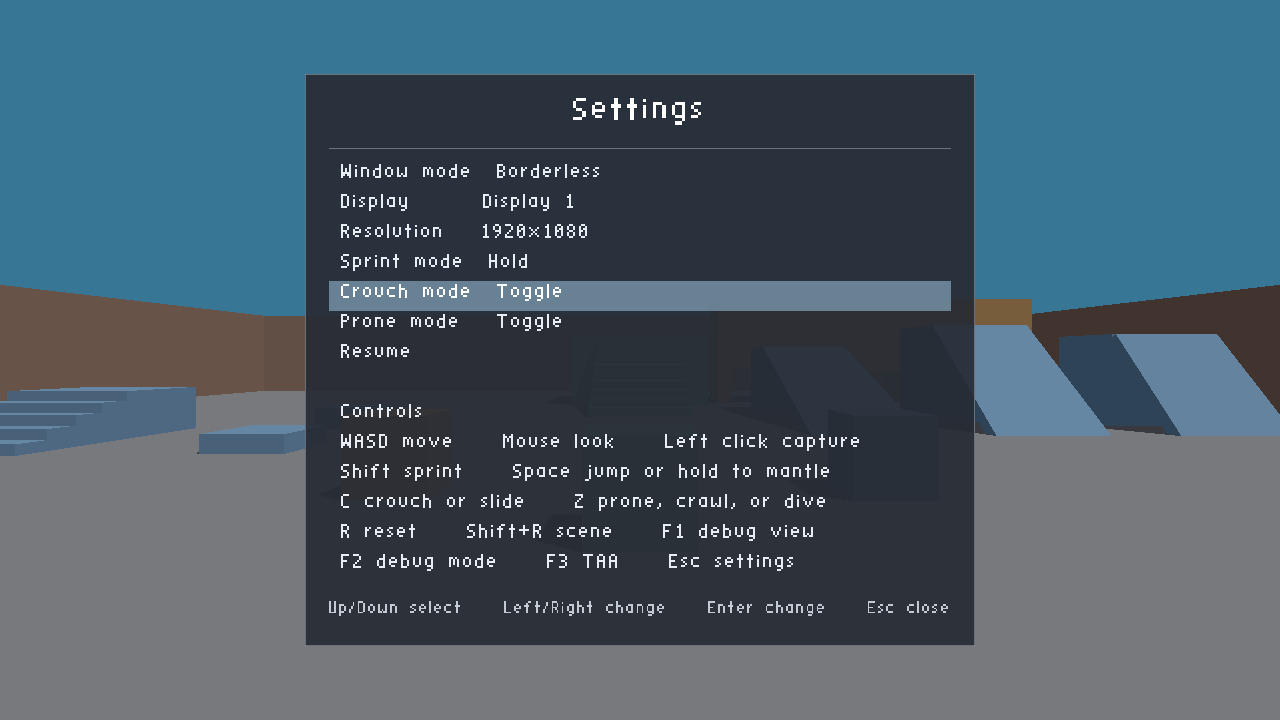
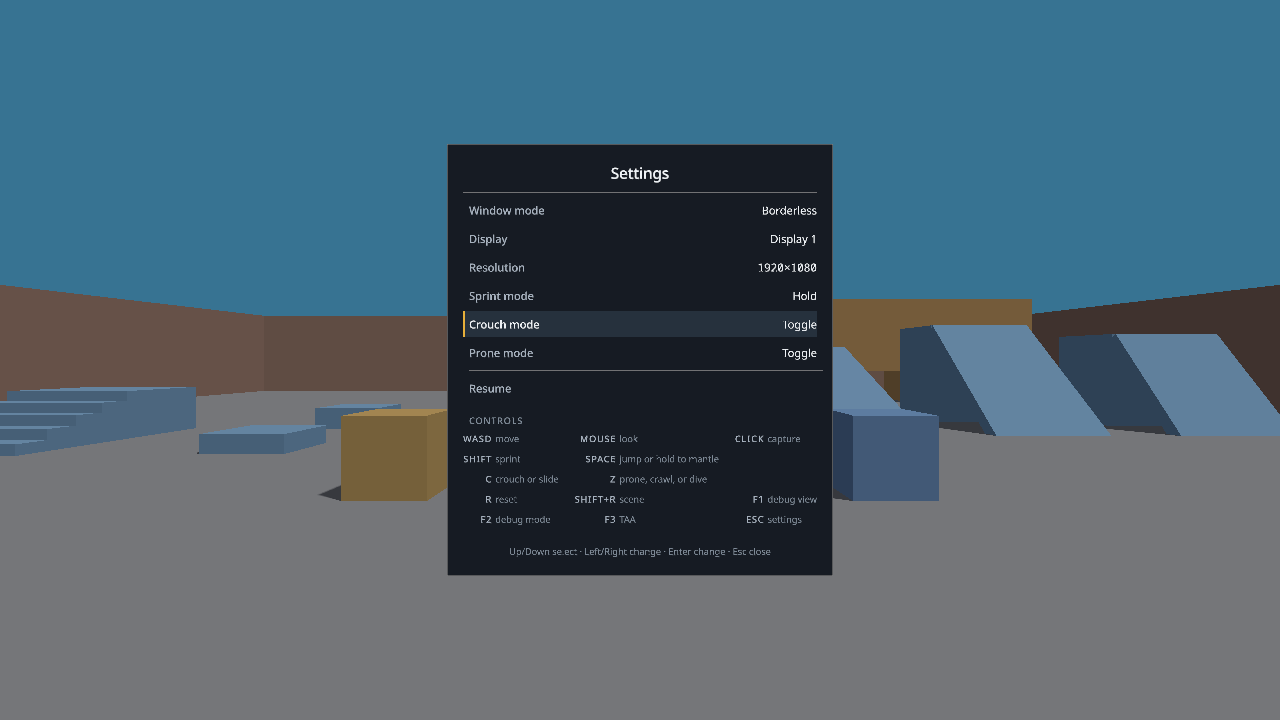
test(harness): cover the new UI and refresh the evidence
Add a debug_mode command so the debug readout can be captured and checked; it
reports through debug.active and is idempotent, because the game's toggle is not.
Clearing the simulation now resets the debug mode too, since its saved player
belongs to the world that just went away.

Add hud, hud-debug, and ui scenarios, regenerate the UI evidence, and document
the screenshot recipe. README and the harness guide describe the panel as it now
draws.

Refs #99

diff --git a/README.md b/README.md
@@ -49,9 +49,14 @@ into the binary.
 
 ### Settings menu
 
-`Esc` opens a centered settings menu. The menu pauses the simulation and shows
-the active control list. It changes the window mode, the display, the
-resolution, and the sprint, crouch, and prone input modes.
+`Esc` opens a centered settings menu. The menu pauses the simulation. It changes
+the window mode, the display, the resolution, and the sprint, crouch, and prone
+input modes, and below them it lists the active controls as a key legend.
+
+The first six rows are settings: the label sits on the left, the current value is
+right-aligned on the panel edge. `Resume` is an action, not a setting, and sits
+below a divider. The selected row always carries an amber bar on its leading
+edge, so selection never depends on a colour change alone.
 
 - `Up` / `Down`: select a row.
 - `Left` / `Right`: change the selected row in that direction.
@@ -178,7 +183,8 @@ step. `forward`, `right`, and `jump` persist; `jump` is an edge on the first
 frame of its block. Capture frames are zero-based frame numbers. Check operators
 are `eq`, `ne`, `lt`, `le`, `gt`, and `ge`. Check fields use the `state.json`
 shape, for example `player.position.y`, `player.grounded`, `crates.0.position.z`,
-`crates.count`, `settings.window_mode`, `settings.resolution`, or `menu.open`.
+`crates.count`, `settings.window_mode`, `settings.resolution`, `menu.open`, or
+`debug.active`.
 
 A scenario may use `commands` instead of `steps`:
 
@@ -210,7 +216,7 @@ The batch runner and the live session share one command set:
 - `{"cmd": "step", "frames": 60}`: fixed steps with no wall clock. A step is an
   error while the menu is open.
 - `{"cmd": "state"}`: player, eye, velocity, yaw, pitch, grounded, crates,
-  window and input settings, menu, frame, and digest.
+  window and input settings, debug mode, menu, frame, and digest.
 - `{"cmd": "capture", "name": "shot", "frame": 90, "alpha": 1.0}`: write a PNG.
   `frame` is optional. A past frame is an error; a future frame queues.
 - `{"cmd": "camera", "position": [0, 2, 12], "yaw": 0, "pitch": 0}`: inspection
@@ -218,6 +224,9 @@ The batch runner and the live session share one command set:
   the override.
 - `{"cmd": "view", "hud": true, "debug": false, "hint": false}`: toggle the HUD,
   the debug draw, and the capture hint.
+- `{"cmd": "debug_mode", "active": true}`: enter or leave the `F2` debug mode.
+  Entering swaps the player for the free-fly camera; leaving restores the player.
+  Repeating the same value is a no-op.
 - `{"cmd": "menu", "open": true, "select": 1, "activate": true, "direction": -1}`:
   open or close the settings menu, select a row, and activate the selected row.
   `select` is zero-based and needs an open menu. `activate` also needs an open

diff --git a/docs/evidence/ui.md b/docs/evidence/ui.md
@@ -1,0 +1,58 @@
+# UI evidence
+
+The 2D layer is drawn by the overlay pass: a status panel, a capture hint, a
+crosshair, and the settings panel. These captures come from
+`bin/harbagsa-agent` at 1280x720. The recipe is in
+`docs/agents/harness.md`.
+
+## Settings panel
+
+| Before | After |
+| --- | --- |
+| ![before](settings-menu-before.png) | ![after](settings-menu.png) |
+
+What changed:
+
+- Text is Noto Sans drawn from a signed distance field atlas, so it is
+  antialiased at every window size instead of a 1 px bitmap scaled by a
+  fraction.
+- Values sit on one column at the panel's inner edge. The old layout padded with
+  `%-12s`, which spread the value column over a 16 px range because the font is
+  proportional.
+- The selected row lifts to a lighter surface and carries a 2 px amber bar. The
+  old selection filled the row with a blue that measured 4.2:1 against white
+  text, under the 4.5:1 floor.
+- `Controls` is a section header in tracked capitals, not a row that looks
+  selectable.
+- The control list is a key legend: keys are set against their action in three
+  measured columns instead of runs of four spaces.
+- `1920×1080` uses the multiplication sign.
+
+The same panel at 2x, for reading the type:
+
+![crop](settings-menu-crop.png)
+
+## Status panel
+
+| Before | After |
+| --- | --- |
+| ![before](hud-before.png) | ![after](hud.png) |
+
+What changed:
+
+- One heading carries the stance and the gait. Speed and movement state are
+  body rows. Grounded and position are caption rows. The old panel drew six
+  lines at one size and one colour.
+- Every number that changes during play is formatted into a fixed field and drawn
+  in Noto Sans Mono, so the row width never changes and the panel never resizes
+  as the player walks. A test holds this.
+- The position names its axes.
+- The capture hint sits below the crosshair. The old hint was centre-anchored
+  and the crosshair drew straight through the text.
+
+## Debug readout
+
+![debug](hud-debug.png)
+
+The debug mode readout uses the same row renderer: a heading, two metrics, a
+divider, and two caption rows. `scenarios/hud-debug.json` produces it.

diff --git a/docs/agents/harness.md b/docs/agents/harness.md
@@ -92,6 +92,7 @@ Rules:
 - `{"cmd": "camera", "position": [0, 2, 12], "yaw": 0, "pitch": 0}`
 - `{"cmd": "camera", "clear": true}`
 - `{"cmd": "view", "hud": true, "debug": false, "hint": false}`
+- `{"cmd": "debug_mode", "active": true}`
 - `{"cmd": "menu", "open": true, "select": 1, "activate": true, "direction": -1}`
 - `{"cmd": "check", "field": "player.position.y", "op": "gt", "value": 0}`
 - `{"cmd": "record", "path": "scenarios/walk.json"}`
@@ -113,6 +114,35 @@ The harness has no compositor, so the menu uses a fixed two-display list:
 zero-based index, `settings.resolution` is the effective size, and
 `settings.window_resolution` is the stored Windowed size. In Borderless the
 effective size is the display's desktop mode.
+
+## UI scenarios
+
+The 2D layer is part of the feature, so its captures live next to it.
+
+| Scenario | Proves |
+| --- | --- |
+| `scenarios/hud.json` | the status panel at spawn, mid-walk, and facing the arena |
+| `scenarios/hud-debug.json` | the debug-mode readout, which shares the row renderer |
+| `scenarios/ui.json` | the settings panel with a numeric value selected, then an action row |
+| `scenarios/settings-menu.json` | the settings round trip and the menu digest |
+| `scenarios/window-settings.json` | the window rows after a display change |
+
+Regenerate the evidence in `docs/evidence/` with:
+
+```sh
+./bin/harbagsa-agent run scenarios/hud.json --out /tmp/hud
+./bin/harbagsa-agent run scenarios/hud-debug.json --out /tmp/hud-debug
+./bin/harbagsa-agent run scenarios/ui.json --out /tmp/ui
+cp /tmp/hud/frames/hud-spawn.png docs/evidence/hud.png
+cp /tmp/hud-debug/frames/hud-debug.png docs/evidence/hud-debug.png
+cp /tmp/ui/frames/menu-number.png docs/evidence/settings-menu.png
+```
+
+The menu crop is the panel region scaled 2x with nearest-neighbour:
+
+```sh
+python3 -c "from PIL import Image; im = Image.open('docs/evidence/settings-menu.png'); im.crop((440,140,840,560)).resize((800,840), Image.NEAREST).save('docs/evidence/settings-menu-crop.png')"
+```
 
 ## Live session
 
